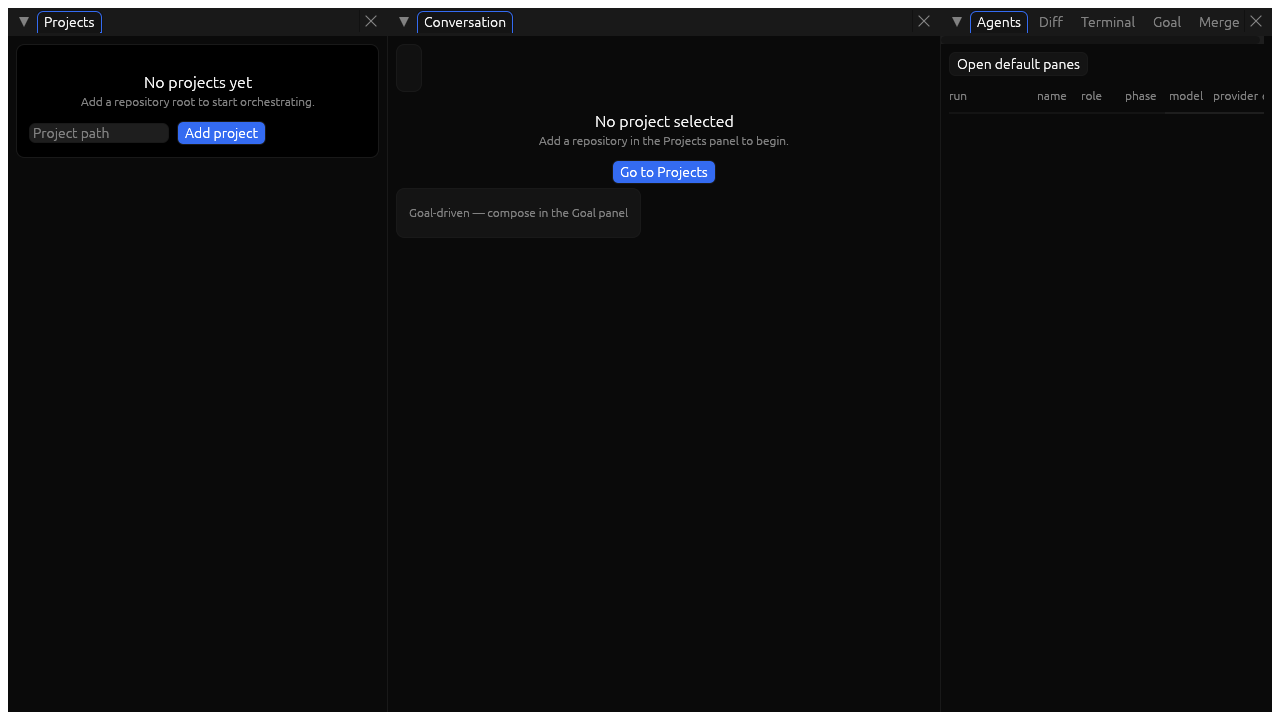
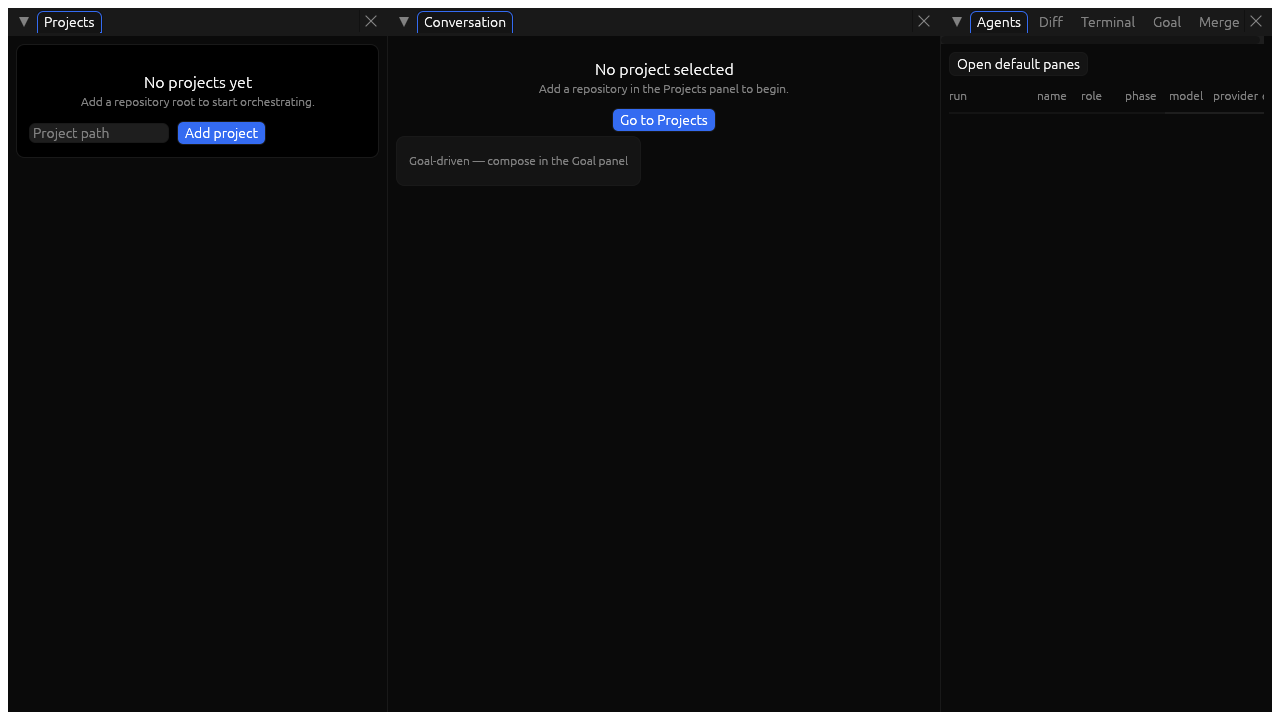
gui(docs): add hover-state capture and refresh empty-state screenshot

Changed region(s): [[0.3125, 0.0917, 0.625, 0.3056]]

diff --git a/crates/gui/docs/screenshots/v03/README.md b/crates/gui/docs/screenshots/v03/README.md
@@ -11,6 +11,7 @@ issue #81「v0.3: GUI デザインシステム整備（t3code 風ダークテー
 | `after-empty.png` | after / 空状態 | テーマ適用後。placeholder + CTA |
 | `after-demo.png` | after / demo populated | テーマ適用後。状態ドット・選択ハイライト・タブアクセント（`• Agents` / `• Merge` amber） |
 | `after-demo-merge.png` | after / demo populated | `--activate merge-main`。Merge タブの amber `•` アテンションと merge 承認 pane（PR #81 / ci / reviewer バッジ） |
+| `after-demo-hover.png` | after / demo populated | `--pointer 1175 22` で Goal タブを hover。hover 状態（明るい文字色・背景）を検証 |
 
 ## 取得手順（再現コマンド）
 
@@ -24,10 +25,12 @@ nix develop -c env WGPU_BACKEND=vulkan cargo run -q -p gui --bin headless_captur
 nix develop -c env WGPU_BACKEND=vulkan cargo run -q -p gui --bin headless_capture -- --out target/after-empty.png
 nix develop -c env WGPU_BACKEND=vulkan cargo run -q -p gui --bin headless_capture -- --demo --out target/after-demo.png
 nix develop -c env WGPU_BACKEND=vulkan cargo run -q -p gui --bin headless_capture -- --demo --activate merge-main --out target/after-demo-merge.png
+# Goal タブ中心 (1175, 22) にポインタを置いて hover 状態を capture（座標は after-demo.png から計測）
+nix develop -c env WGPU_BACKEND=vulkan cargo run -q -p gui --bin headless_capture -- --demo --pointer 1175 22 --out target/after-demo-hover.png
 ```
 
 - レンダラ: wgpu Vulkan / mesa lavapipe（`nix develop` 環境。CI と同一経路: `.github/workflows/ci.yml` の headless capture ジョブ）
 - 解像度: 1280x720 PNG（RGBA8）
 - before 取得時点 SHA: `6e9ddcb`
-- after 取得時点 SHA: `8ac6d52`
+- after 取得時点 SHA: `8ac6d52`（after-empty / after-demo-hover は `37c3b0b` で再取得: 空状態の空 header strip 除去と hover capture 追加のため）
 - タブアテンションの `•` は U+2022（egui 同梱フォントに U+25CF がなく tofu 化するため）
